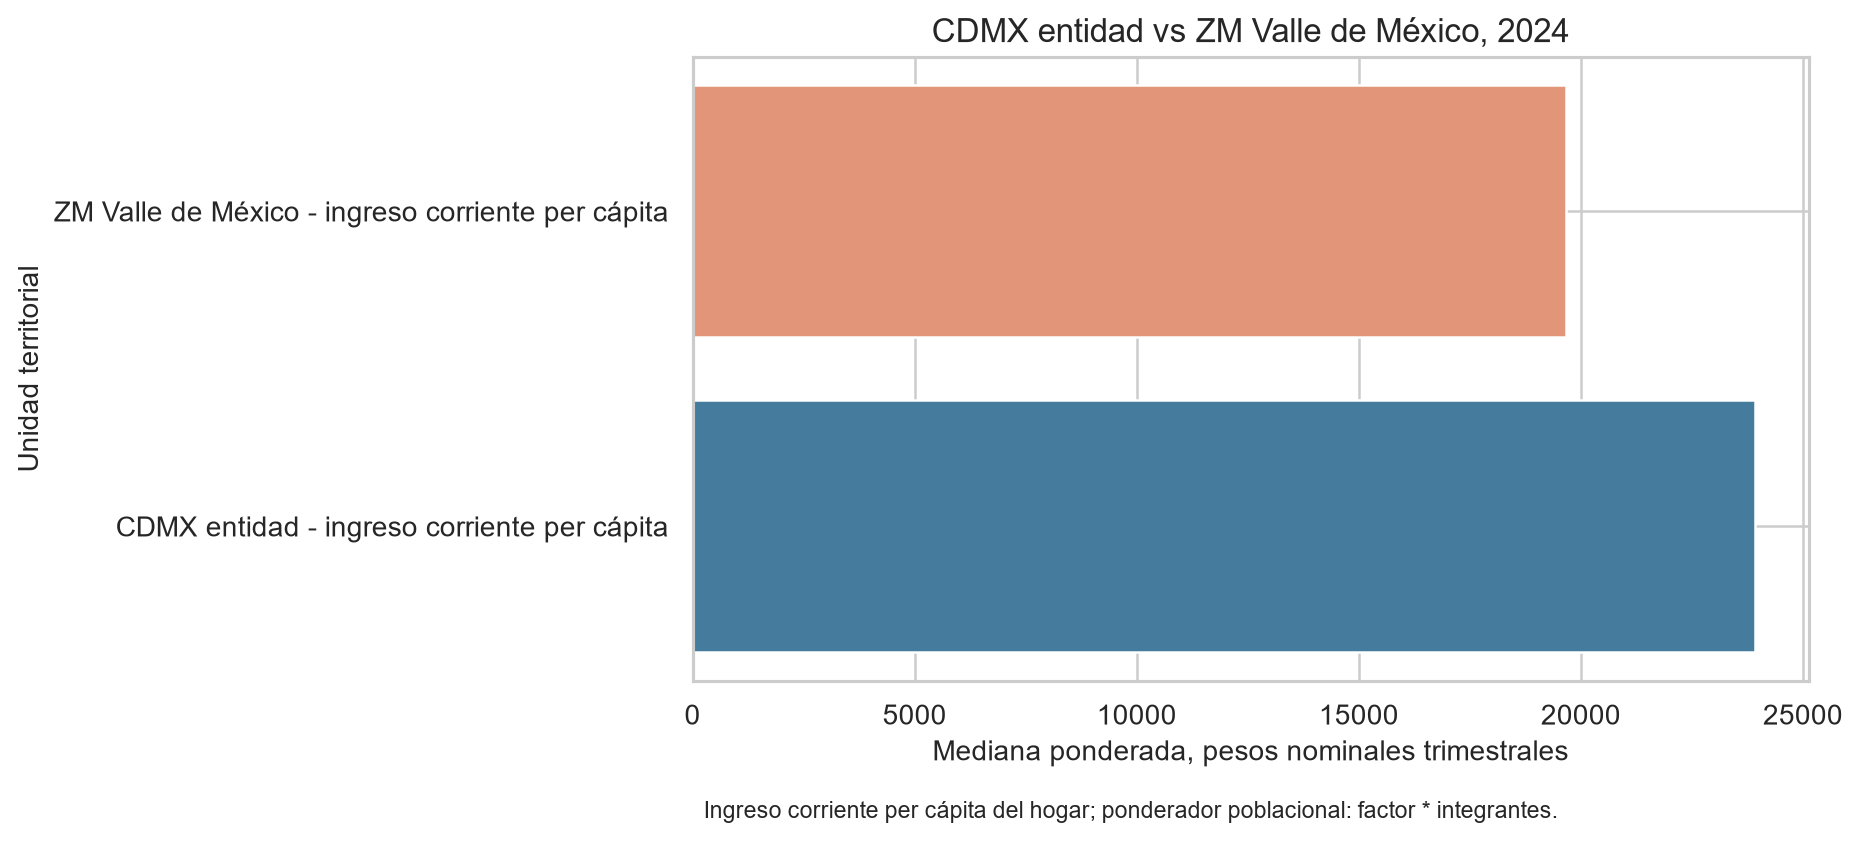
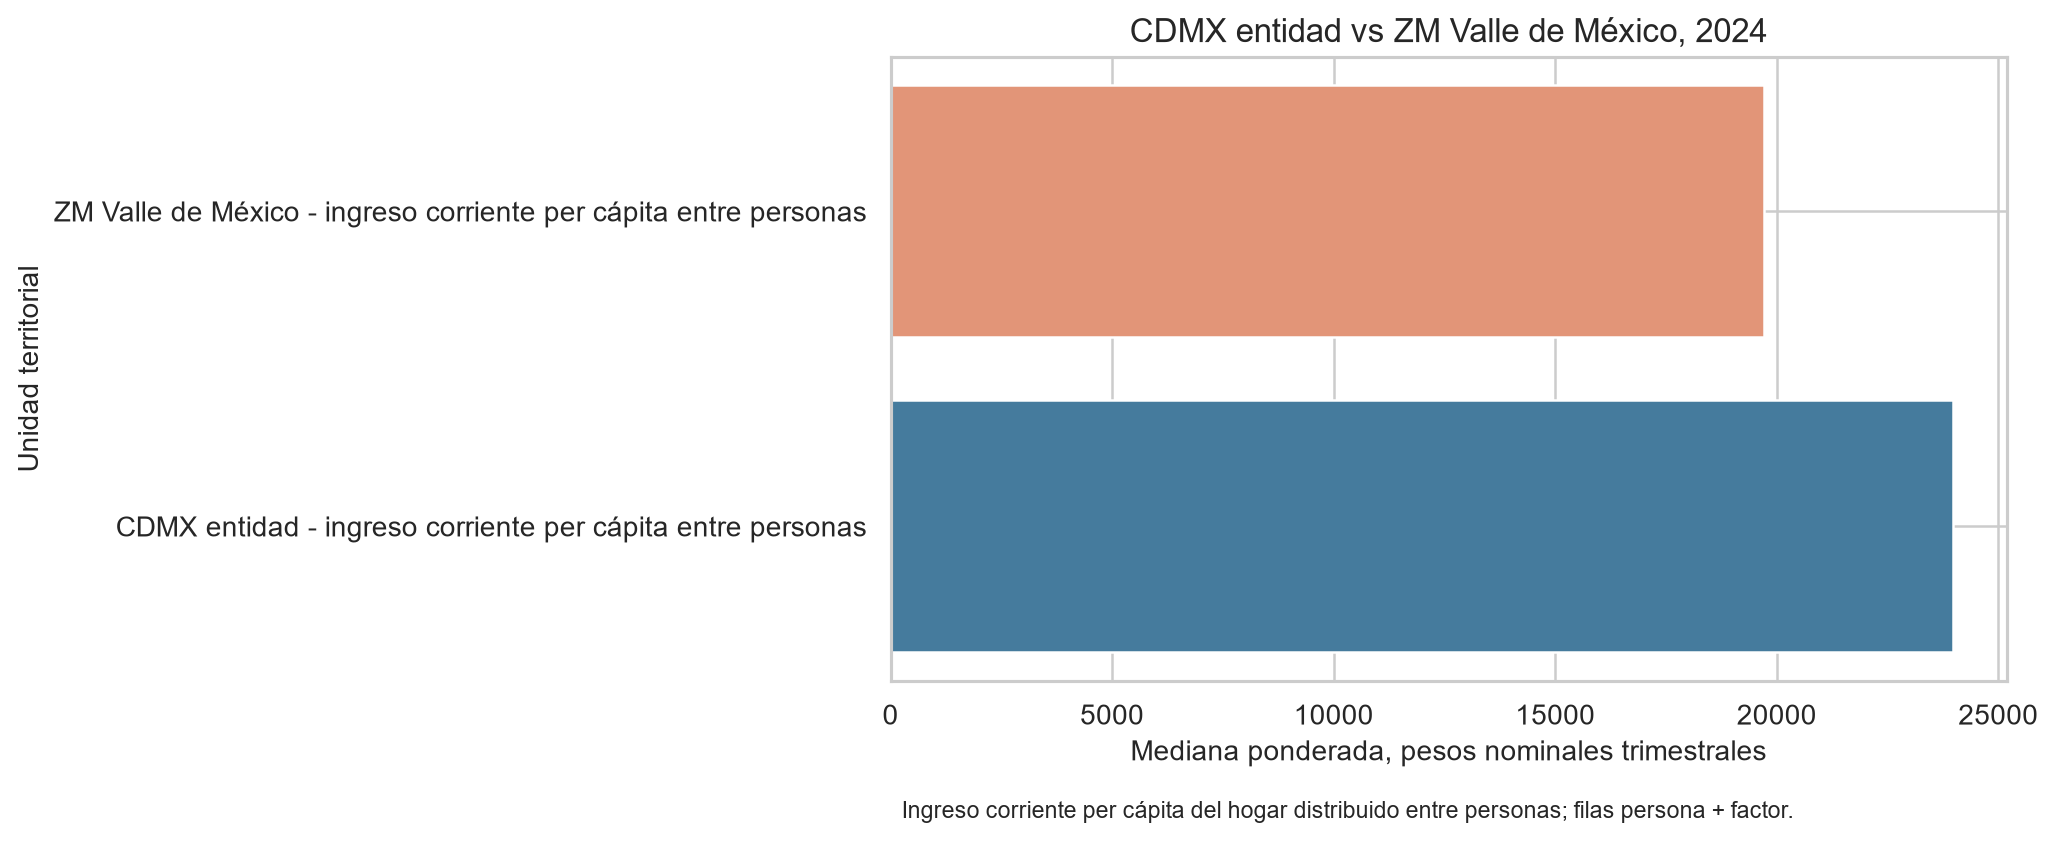
Corrige y documenta ponderacion por unidad de analisis

diff --git a/reports/documentacion_final_en_desarrollo.md b/reports/documentacion_final_en_desarrollo.md
@@ -213,23 +213,47 @@ Las bases conservan `factor`, `factor_hogar`, `est_dis` y `upm`. En esta etapa s
 
 ## Ponderación y factor de expansión
 
-En ENIGH, cada observación representa una cantidad determinada de unidades de la población. En las bases analíticas actuales, `factor` es un alias operativo de `factor_hogar`.
+Auditoría metodológica agregada el 2026-08-31 antes de continuar con deflactación, diseño muestral formal o modelos. El principio permanente queda así: antes de reportar media, mediana, cuantiles, Gini, proporciones o brechas se debe registrar unidad de observación, población objetivo, variable de peso y definición del estimando.
 
-Evidencia revisada:
+Evidencia oficial INEGI revisada en los PDF locales `data/raw/EINGH/<año>/doc_<año>.pdf`, sección 1.3.3:
 
-- `docs/enigh_variable_metadata.csv` documenta `factor` como “Factor de expansión”.
-- `concentradohogar.csv` contiene `factor`, `est_dis` y `upm` en 2018, 2020, 2022 y 2024.
-- El notebook 05 construyó `mart_hogar` con `factor_hogar` desde `concentradohogar` y expuso `factor` como alias.
-- En 2022 y 2024, las tablas raw que traen `factor` coinciden con `concentradohogar`; no se detectaron cambios de valor del factor entre tablas.
+- 2018 y 2020: el factor de expansión para cualquier nivel se encuentra en `factor` de VIVIENDAS y CONCENTRADOHOGAR; `poblacion.csv` no trae `factor` directo.
+- 2022 y 2024: el factor de expansión para cualquier nivel se encuentra en `factor` de VIVIENDAS, HOGARES, POBLACION, GASTOSHOGAR, GASTOSPERSONA, INGRESOS, TRABAJOS y CONCENTRADOHOGAR.
+- En las tablas raw donde aparece `factor`, no se detectaron diferencias contra CONCENTRADOHOGAR por las llaves disponibles.
+- En `mart_persona`, cada fila ya representa una persona y debe ponderarse con `factor`; no se debe multiplicar de nuevo por `tot_integ`.
 
-Uso actual:
+Tabla definitiva de ponderación:
 
-| Uso | Nivel | Peso |
-| --- | --- | --- |
-| Ingreso corriente total del hogar | Hogar | `factor` |
-| Gini nacional y regional de hogares | Hogar | `factor` |
-| Ingreso laboral individual | Persona | `factor` |
-| Ingreso corriente per cápita como bienestar individual | Personas en hogares | `factor * tot_integ` |
+| Estimando | Unidad de la tabla | Peso | Interpretación |
+| --- | --- | --- | --- |
+| Media ingreso hogar | Hogar | `factor` | Hogares |
+| Mediana ingreso hogar | Hogar | `factor` | Hogares |
+| Media ingreso individual | Persona | `factor` | Personas |
+| Mediana ingreso individual | Persona | `factor` | Personas |
+| Población total desde hogares | Hogar | `factor × tot_integ` | Personas integrantes del hogar |
+| Ingreso PC hogar distribuido entre hogares | Hogar | `factor` | Hogares |
+| Ingreso PC hogar distribuido entre personas | Hogar | `factor × tot_integ` | Personas integrantes del hogar |
+| Ingreso PC hogar distribuido entre personas desde `mart_persona` | Persona | `factor` | Personas |
+
+Prueba de doble ponderación sobre filas persona:
+
+| Año | `sum(factor)` en `mart_persona` | `sum(factor × tot_integ)` sobre `mart_persona` | Razón |
+| --- | ---: | ---: | ---: |
+| 2018 | 123,934,029 | 561,257,240 | 4.53 |
+| 2020 | 126,838,467 | 566,104,426 | 4.46 |
+| 2022 | 128,999,038 | 558,856,484 | 4.33 |
+| 2024 | 130,325,969 | 554,726,112 | 4.26 |
+
+Esto demuestra que `factor × tot_integ` no puede usarse sobre filas que ya son personas.
+
+Para ingreso corriente per cápita del hogar, el estimando principal del análisis territorial queda definido como distribución **entre personas**: una fila por persona en `mart_persona`, valor `ing_cor_hogar_pc_oficial_tri`, peso `factor`. El cálculo desde hogares con `factor × tot_integ` se conserva solo como contraste conceptual. La equivalencia no es exacta porque la suma de `factor` en `mart_persona` difiere ligeramente de `factor × tot_integ` desde hogares, pero las diferencias de mediana son pequeñas.
+
+| Año | Mediana hogar × integrantes | Mediana `mart_persona` | Diferencia | Gini hogar × integrantes | Gini `mart_persona` | Diferencia |
+| --- | ---: | ---: | ---: | ---: | ---: | ---: |
+| 2018 | 9,294.44 | 9,297.60 | 3.16 | 46.01 | 46.29 | 0.28 |
+| 2020 | 9,710.88 | 9,717.91 | 7.03 | 44.95 | 45.05 | 0.09 |
+| 2022 | 12,979.34 | 12,989.18 | 9.84 | 43.70 | 44.04 | 0.34 |
+| 2024 | 16,596.64 | 16,602.02 | 5.38 | 42.87 | 43.05 | 0.18 |
 
 Media ponderada:
 
@@ -249,12 +273,14 @@ Gini ponderado: la distribución considera la frecuencia poblacional representad
 
 Resumen de expansión:
 
-| Año | Hogares muestrales | Hogares expandidos | Población expandida |
-| --- | ---: | ---: | ---: |
-| 2018 | 74,647 | 34,400,515 | 123,836,081 |
-| 2020 | 89,006 | 35,749,659 | 126,760,856 |
-| 2022 | 90,102 | 37,560,123 | 128,889,708 |
-| 2024 | 91,414 | 38,830,230 | 130,226,218 |
+| Año | Hogares muestrales | Hogares expandidos | Personas desde hogares | Personas desde `mart_persona` |
+| --- | ---: | ---: | ---: | ---: |
+| 2018 | 74,647 | 34,400,515 | 123,836,081 | 123,934,029 |
+| 2020 | 89,006 | 35,749,659 | 126,760,856 | 126,838,467 |
+| 2022 | 90,102 | 37,560,123 | 128,889,708 | 128,999,038 |
+| 2024 | 91,414 | 38,830,230 | 130,226,218 | 130,325,969 |
+
+El diseño complejo se mantiene separado: `factor + est_dis + upm` será necesario para errores estándar, intervalos de confianza y pruebas inferenciales. En esta etapa solo se reportan estimaciones descriptivas puntuales.
 
 ## Validación externa del Gini
 
@@ -300,7 +326,7 @@ Diagnóstico de definición:
 
 - El cálculo hogar-total ponderado por `factor` queda sistemáticamente por debajo de Banxico.
 - La discrepancia máxima con esa definición es 3.22 puntos de Gini en Sur 2020.
-- Una variante diagnóstica con `ing_cor_pc_oficial_tri` y `factor * tot_integ` se acerca mucho más: discrepancia máxima aproximada de 1.06 puntos.
+- Una variante diagnóstica con ingreso per cápita distribuido entre personas, calculada desde `mart_persona` con `factor`, se acerca más: discrepancia máxima aproximada de 1.71 puntos.
 - Esto sugiere que la diferencia más probable no está en el mart ni en la ausencia de ponderación, sino en la definición exacta de ingreso/unidad de distribución usada por las bases CONEVAL/Banxico.
 - No se fuerza la coincidencia: hasta reproducir exactamente la construcción CONEVAL, la validación se clasifica como reproducción parcial.
 
@@ -318,15 +344,15 @@ La desigualdad interna mide dispersión dentro de un territorio: Gini, P90/P10 y
 
 ![Distribución regional del ingreso corriente per cápita, 2024](figures_documentacion/ingreso_pc_region_2024.png)
 
-Fuente: elaboración propia con ENIGH 2024. Ingreso corriente per cápita del hogar ponderado con `factor * tot_integ`. Montos nominales trimestrales.
+Fuente: elaboración propia con ENIGH 2024. Ingreso corriente per cápita del hogar distribuido entre personas: `mart_persona` + `factor`. Montos nominales trimestrales.
 
 ![Gradiente por tamaño de localidad, 2024](figures_documentacion/gradiente_tam_loc_2024.png)
 
-Fuente: elaboración propia con ENIGH 2024. Mediana ponderada del ingreso corriente per cápita del hogar. Montos nominales trimestrales.
+Fuente: elaboración propia con ENIGH 2024. Mediana ponderada del ingreso corriente per cápita del hogar distribuido entre personas: `mart_persona` + `factor`. Montos nominales trimestrales.
 
 ![Gradiente por estrato socioeconómico, 2024](figures_documentacion/gradiente_est_socio_2024.png)
 
-Fuente: elaboración propia con ENIGH 2024. Mediana ponderada del ingreso corriente per cápita del hogar. Montos nominales trimestrales.
+Fuente: elaboración propia con ENIGH 2024. Mediana ponderada del ingreso corriente per cápita del hogar distribuido entre personas: `mart_persona` + `factor`. Montos nominales trimestrales.
 
 ## Zonas metropolitanas y CDMX
 
@@ -355,28 +381,28 @@ CDMX no es equivalente a la Zona Metropolitana del Valle de México:
 | Métrica 2024 | n muestral | Población expandida | Mediana ponderada | Gini ponderado |
 | --- | ---: | ---: | ---: | ---: |
 | CDMX entidad: ingreso corriente hogar | 2,576 | 3,082,330 | $81,866 | 40.40 |
-| CDMX entidad: ingreso corriente per cápita | 2,576 | 9,345,564 | $23,930 | 45.70 |
-| ZM Valle de México: ingreso corriente per cápita | 4,540 | 22,370,536 | $19,671 | 43.43 |
+| CDMX entidad: ingreso corriente per cápita entre personas | 8,182 | 9,381,255 | $23,987 | 46.23 |
+| ZM Valle de México: ingreso corriente per cápita entre personas | 14,755 | 22,419,780 | $19,705 | 43.84 |
 | CDMX entidad: ingreso laboral individual positivo | 4,285 | 4,903,427 | $28,673 | 48.67 |
 
 ![CDMX entidad vs Zona Metropolitana del Valle de México](figures_documentacion/cdmx_vs_zmvm_2024.png)
 
-Fuente: elaboración propia con ENIGH 2024. Mediana ponderada del ingreso corriente per cápita del hogar con `factor * tot_integ`. Montos nominales trimestrales.
+Fuente: elaboración propia con ENIGH 2024. Mediana ponderada del ingreso corriente per cápita del hogar distribuido entre personas: `mart_persona` + `factor`. Montos nominales trimestrales.
 
 Comparación 2024 de grandes zonas metropolitanas y contexto desfavorecido:
 
 | Grupo | n muestral | Población expandida | Mediana ponderada | Gini | P90/P10 |
 | --- | ---: | ---: | ---: | ---: | ---: |
-| Monterrey | 2,509 | 5,736,479 | $24,900 | 44.80 | 5.71 |
-| Guadalajara | 1,373 | 6,017,359 | $21,064 | 39.25 | 5.23 |
-| Valle de México | 4,540 | 22,370,536 | $19,671 | 43.43 | 6.31 |
-| Localidad pequeña y estrato socioeconómico bajo | 13,724 | 13,980,966 | $7,888 | 39.45 | 6.14 |
+| Monterrey | 8,264 | 5,743,578 | $24,911 | 45.35 | 5.72 |
+| Guadalajara | 4,487 | 6,021,378 | $21,078 | 39.31 | 5.22 |
+| Valle de México | 14,755 | 22,419,780 | $19,705 | 43.84 | 6.35 |
+| Localidad pequeña y estrato socioeconómico bajo | 50,657 | 13,981,703 | $7,888 | 39.45 | 6.13 |
 
-El grupo desfavorecido es descriptivo, no una clasificación de marginación: se define con `tam_loc_desc = Localidades con menos de 2 500 habitantes` y `est_socio_desc = Bajo`. La razón de medianas entre Monterrey y este grupo es 3.16 en 2024.
+El grupo desfavorecido es descriptivo, no una clasificación de marginación: se define con `tam_loc_desc = Localidades con menos de 2 500 habitantes` y `est_socio_desc = Bajo`. La razón de medianas entre Monterrey y este grupo es 3.16 en 2024, ahora medida como ingreso per cápita distribuido entre personas.
 
 ![Brecha territorial: metrópolis y contexto desfavorecido](figures_documentacion/brecha_metropolitana_2024.png)
 
-Fuente: elaboración propia con ENIGH 2024. Mediana ponderada del ingreso corriente per cápita del hogar con `factor * tot_integ`. Montos nominales trimestrales.
+Fuente: elaboración propia con ENIGH 2024. Mediana ponderada del ingreso corriente per cápita del hogar distribuido entre personas: `mart_persona` + `factor`. Montos nominales trimestrales.
 
 ## Mermaid metodológico
 
@@ -406,16 +432,16 @@ Ponderación y diseño:
 
 ```mermaid
 flowchart TD
-    A["Muestra ENIGH"] --> B["Factor de expansión"]
-    B --> C["Estimaciones poblacionales puntuales"]
-    C --> C1["Media ponderada"]
-    C --> C2["Mediana y cuantiles ponderados"]
-    C --> C3["Gini ponderado"]
-    A --> D["Diseño complejo"]
-    D --> D1["Factor"]
-    D --> D2["Estrato: est_dis"]
-    D --> D3["UPM"]
-    D --> E["Errores estándar e inferencia"]
+    A["¿Cuál es la unidad de observación?"] --> H["Hogar"]
+    A --> P["Persona"]
+    H --> H1["Peso: factor"]
+    P --> P1["Peso: factor"]
+    H1 --> H2{"¿Quiero distribuir a personas desde hogares?"}
+    H2 -->|Sí| H3["Peso: factor × tot_integ"]
+    H2 -->|No| H4["Estimando entre hogares"]
+    P1 --> P2["Estimando entre personas"]
+    D["Diseño muestral completo"] --> D1["factor + est_dis + upm"]
+    D1 --> D2["Errores estándar e inferencia"]
 ```
 
 Flujo de análisis de faltantes:
@@ -446,7 +472,7 @@ Roadmap:
 
 ```mermaid
 flowchart TD
-    A["08 Calidad de bases: COMPLETO"] --> B["09 Desigualdad territorial: EN DESARROLLO"]
+    A["08 Calidad de bases: COMPLETO"] --> B["09 Desigualdad territorial: COMPLETO"]
     B --> C["10 Homologación monetaria: SIGUIENTE"]
     C --> D["11 Diseño muestral formal"]
     D --> E["12 Determinantes del ingreso"]
@@ -460,7 +486,7 @@ flowchart TD
 | Etapa | Estado |
 | --- | --- |
 | 08 Calidad de bases | COMPLETO |
-| 09 Desigualdad territorial | EN DESARROLLO: ponderación auditada, Gini nacional/regional, validación Banxico, CDMX, zonas metropolitanas, brechas territoriales, desigualdad interna vs brecha |
+| 09 Desigualdad territorial | COMPLETO: ponderación auditada, Gini nacional/regional, validación Banxico, CDMX, zonas metropolitanas, brechas territoriales, unidad del estimando documentada |
 | 10 Homologación monetaria | SIGUIENTE |
 | 11 Diseño muestral formal | Pendiente |
 | 12 Determinantes del ingreso | Pendiente |
@@ -483,6 +509,7 @@ flowchart TD
 
 ## Principios metodológicos
 
+- Antes de reportar cualquier estadístico ponderado, registrar: unidad de observación, población objetivo, variable de peso y definición del estimando.
 - No inventar resultados: todo valor reportado debe salir de notebooks o documentación revisada.
 - No asumir causalidad desde asociaciones descriptivas.
 - No usar municipios como dominios representativos sin revisión de diseño y muestra.
